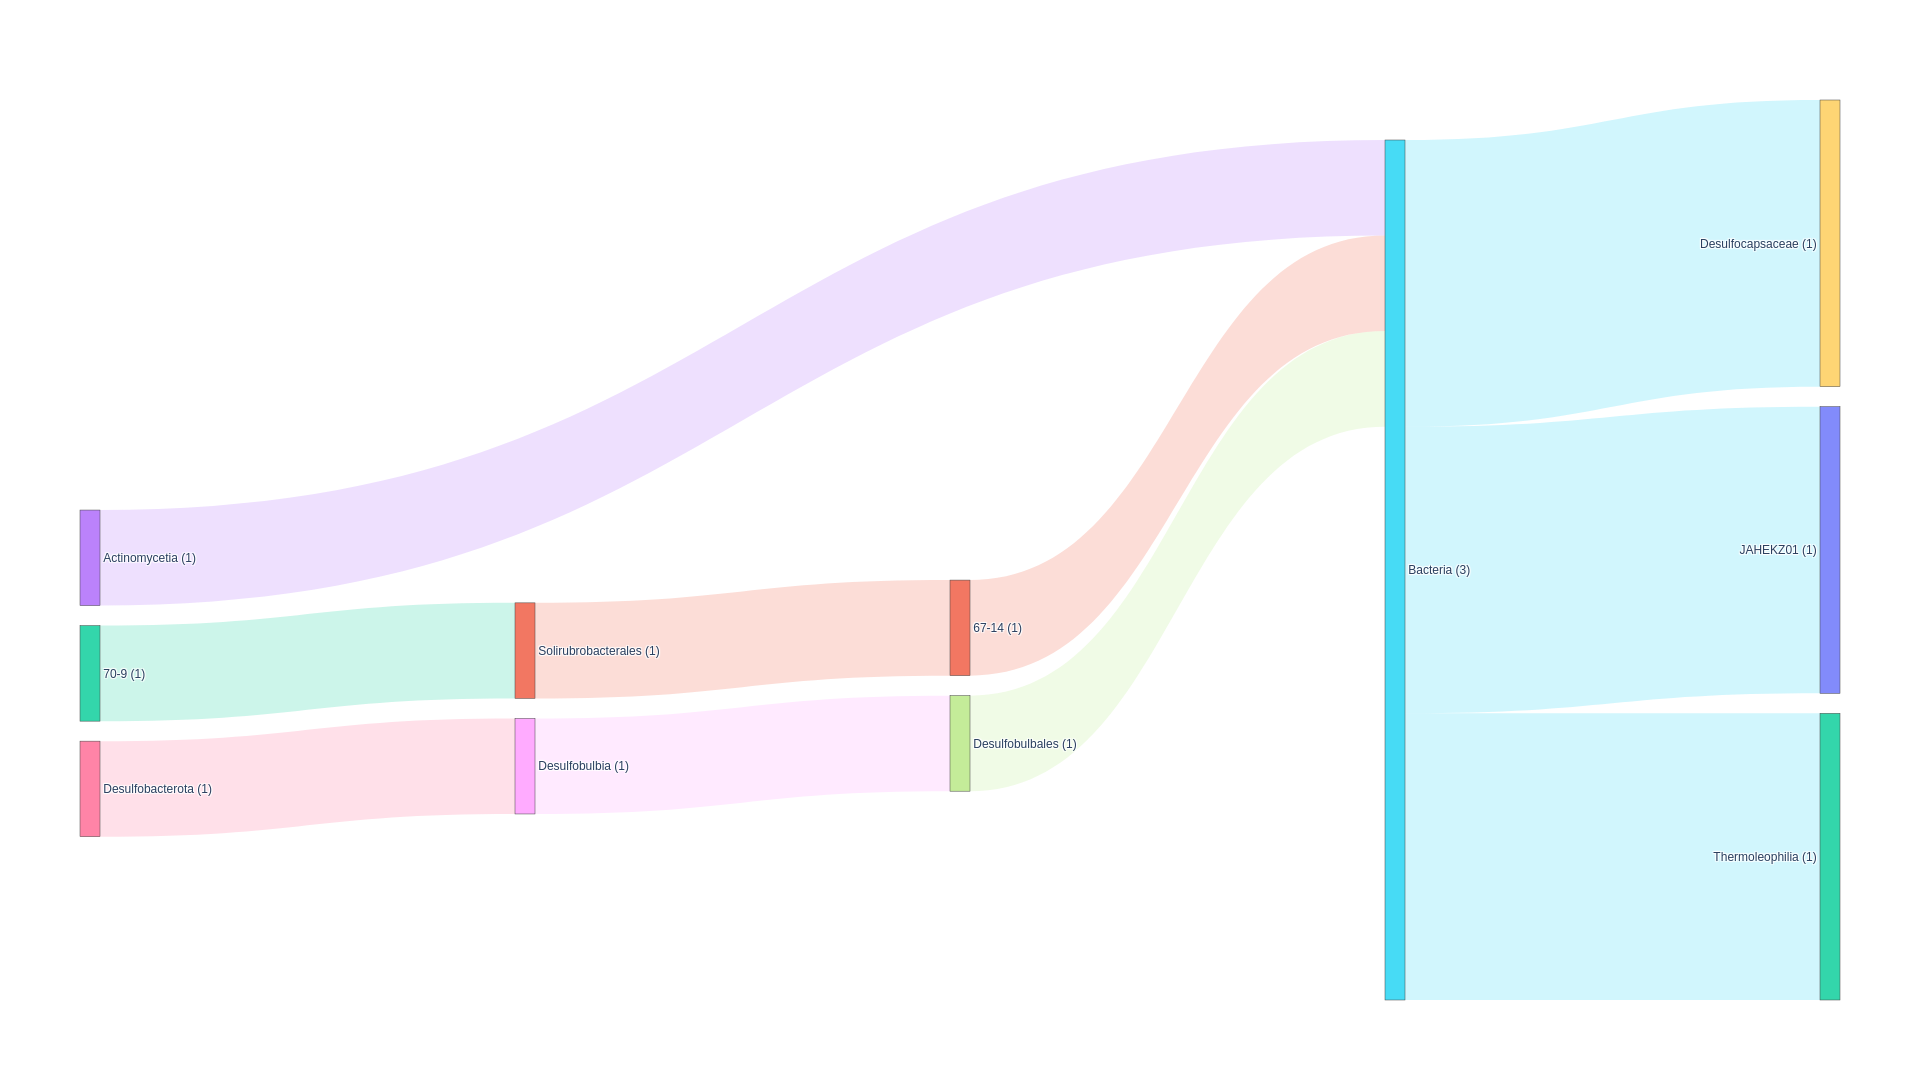
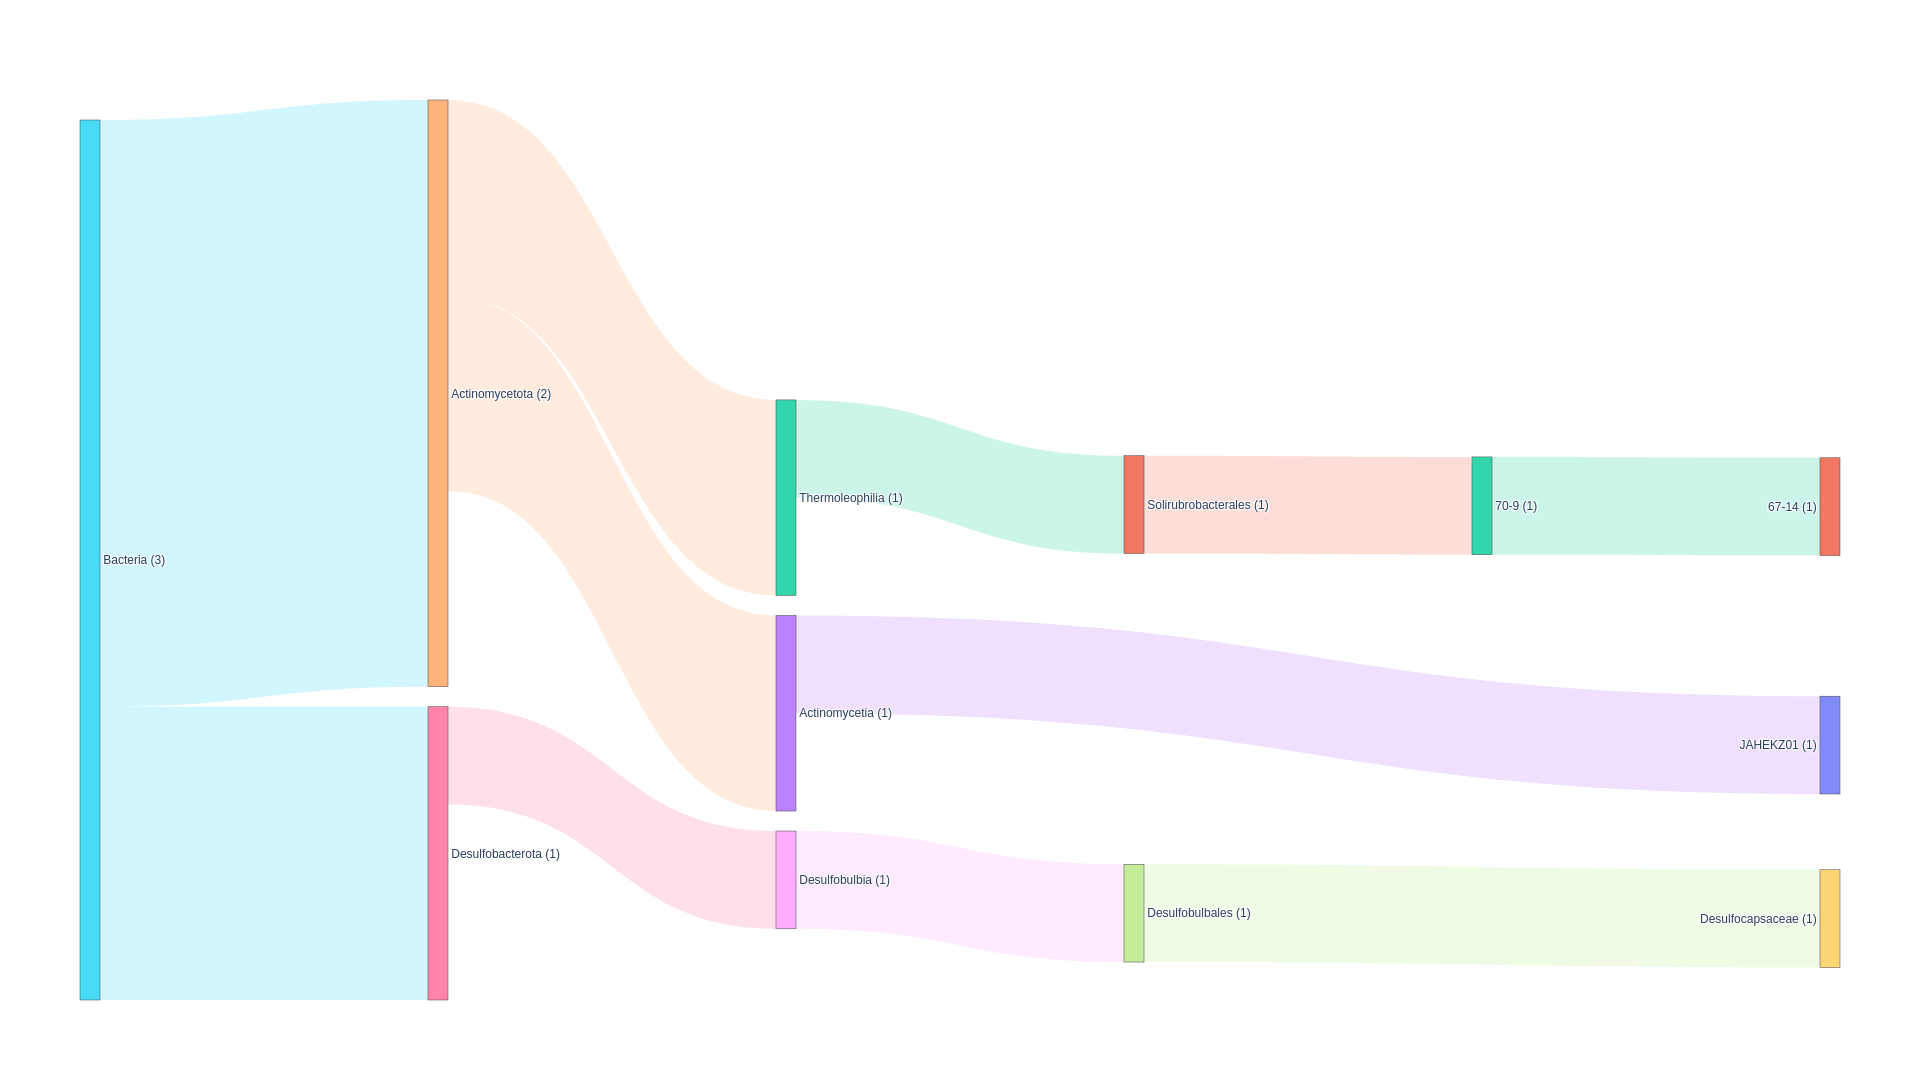
avoid duplicate levels

diff --git a/playground/12_gtdb/plotSankeyDiagram.py b/playground/12_gtdb/plotSankeyDiagram.py
@@ -20,13 +20,13 @@ def extract_categories(classification):
     categories = classification.split(';')
     #levels = [category.split('__')[1] for category in categories]
     #return levels
-    levels = set()
+    levels = []
     for category in categories:
         if '__' in category:
             level = category.split('__')[1]
-            #levels.append(level)
-            levels.add(level)
-    return list(levels)
+            if level not in levels: # verify if level is in the list
+                levels.append(level)
+    return levels
 
 df['levels'] = df['classification'].apply(extract_categories)
 
